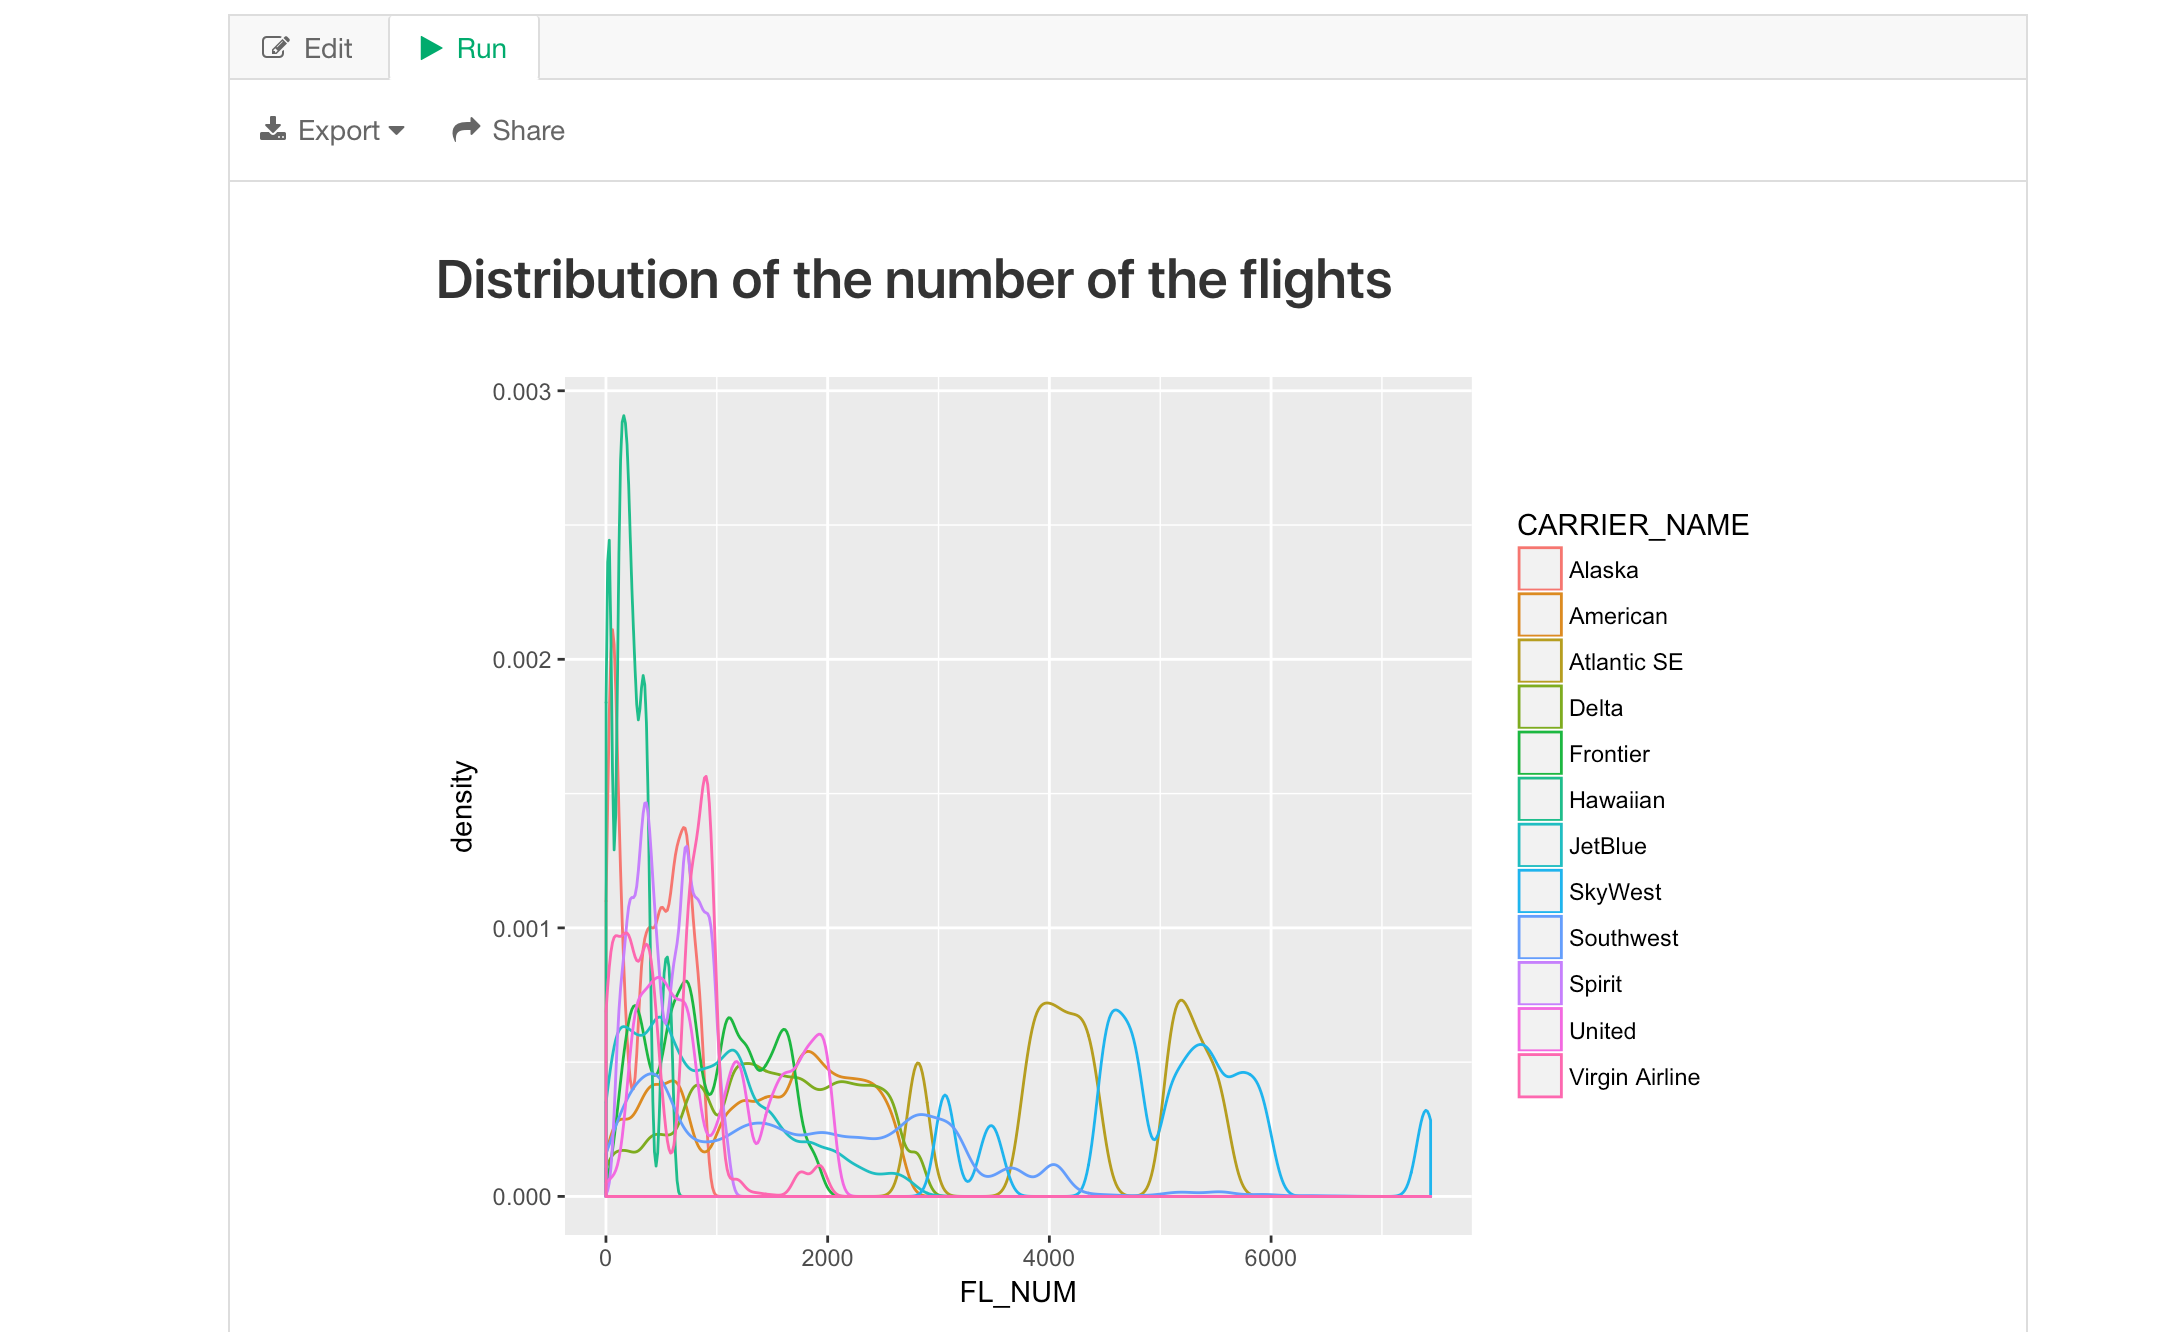
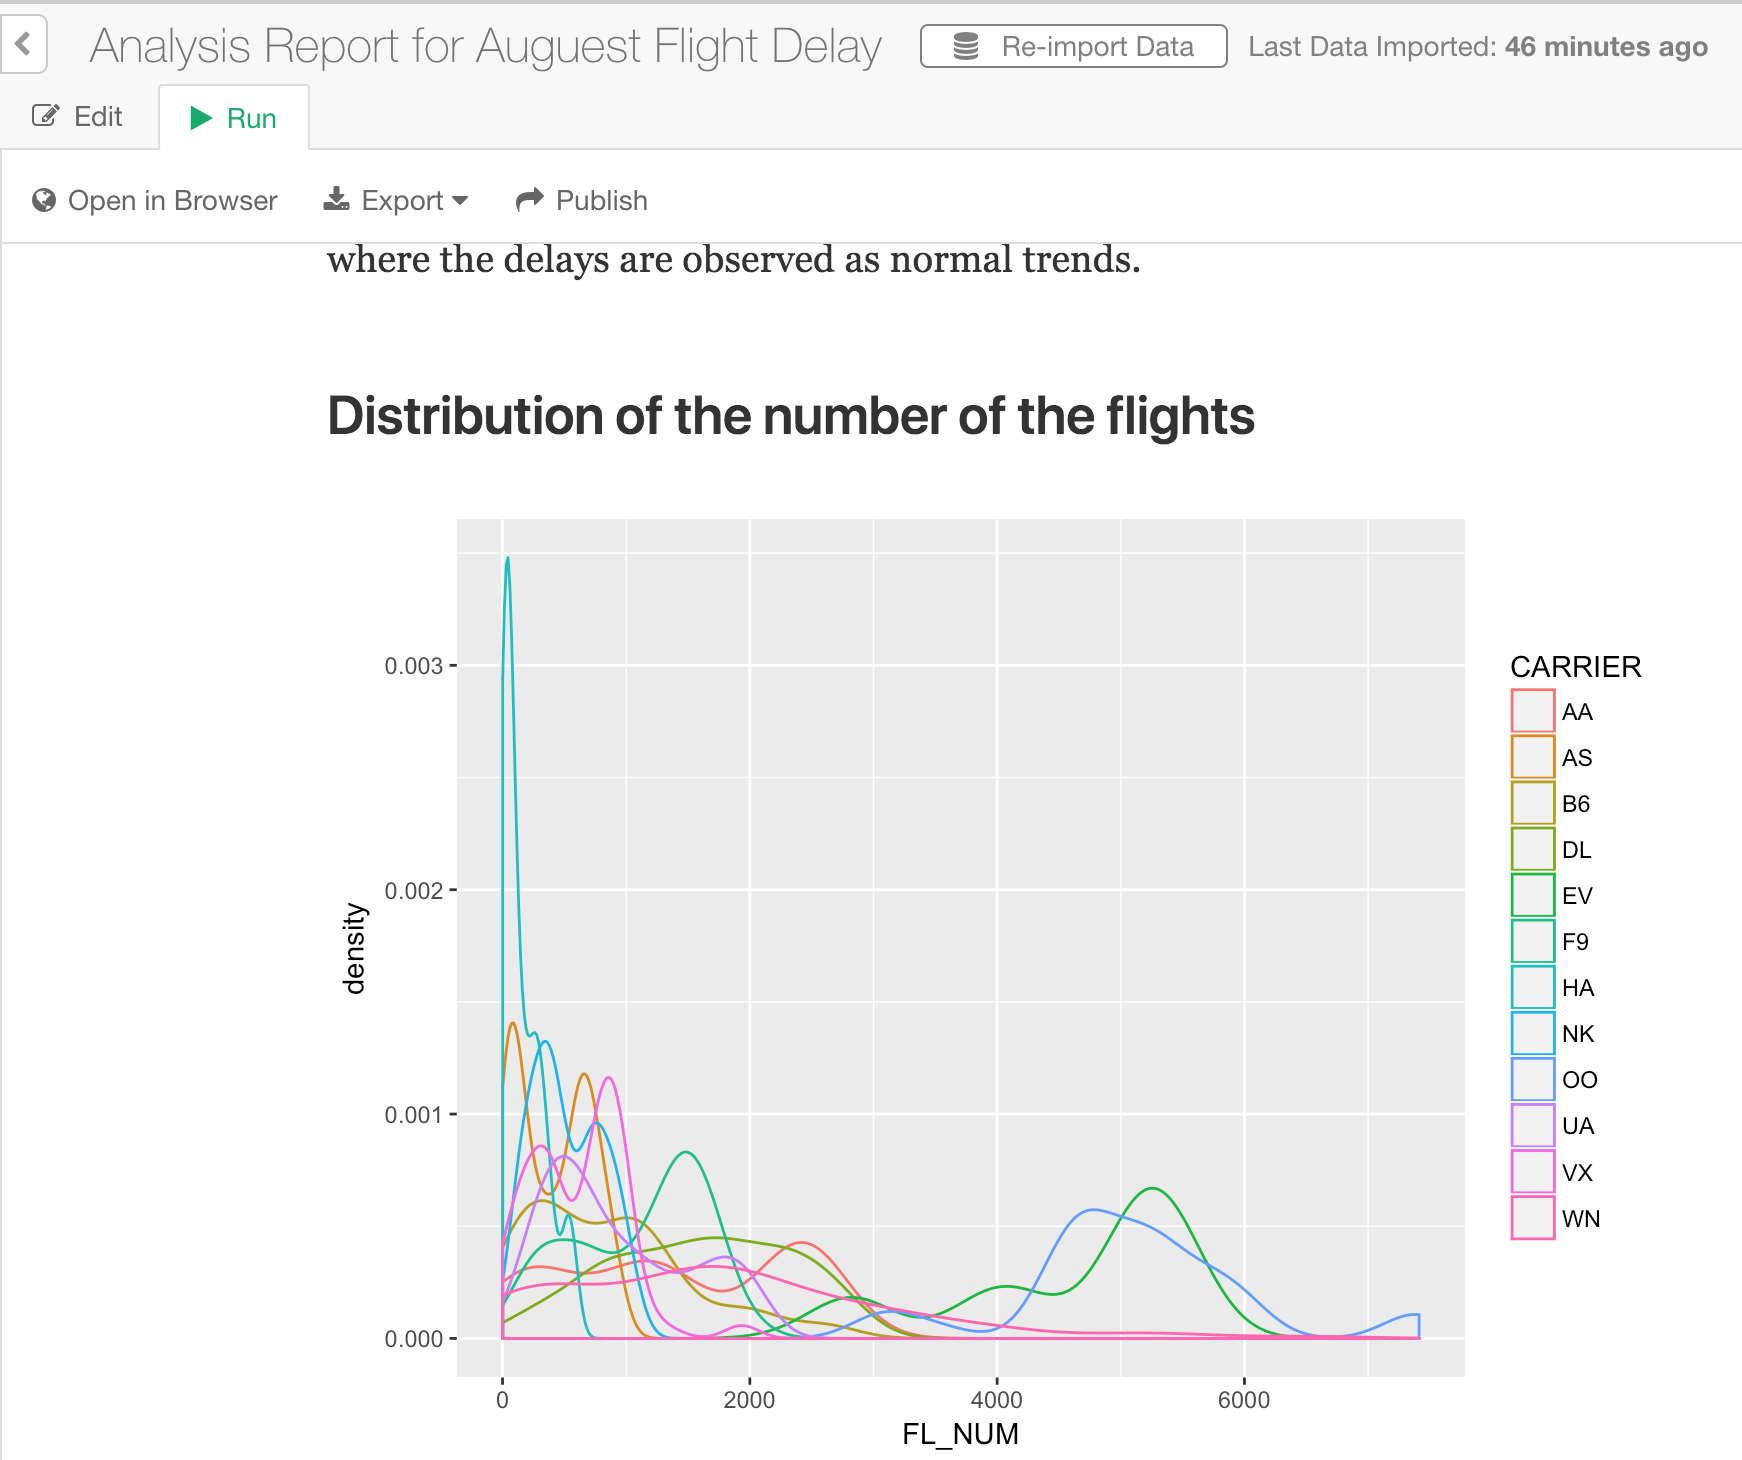
Markdown.

diff --git a/tutorials/quick-start.md b/tutorials/quick-start.md
@@ -682,14 +682,13 @@ If you are familiar with R programming language, then you can write R script wit
 
 Example ggplot2 code:
 
-```
-
+````
+```{r echo=FALSE, cache=TRUE}
 suppressPackageStartupMessages(library(ggplot2))
 ggplot(airline_delay_2016_09, aes(FL_NUM, color = CARRIER_NAME)) +
   geom_density()
-
-
 ```
+````
 
 You can click on Run button at the top to execute the R code and generate the output.
 
